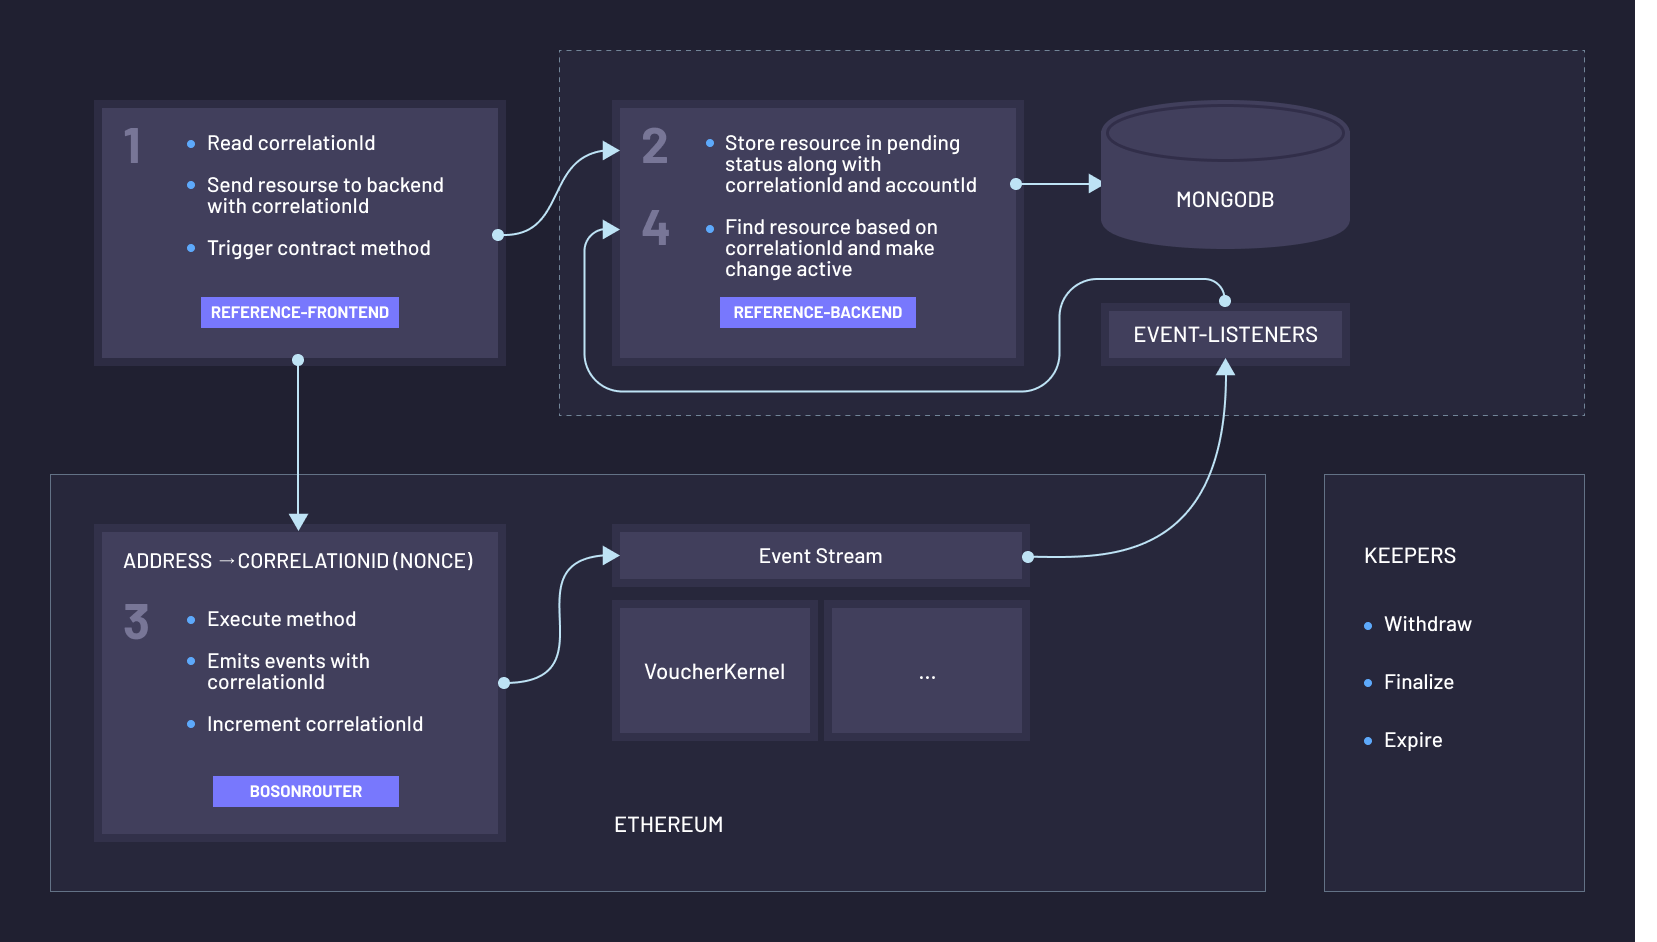
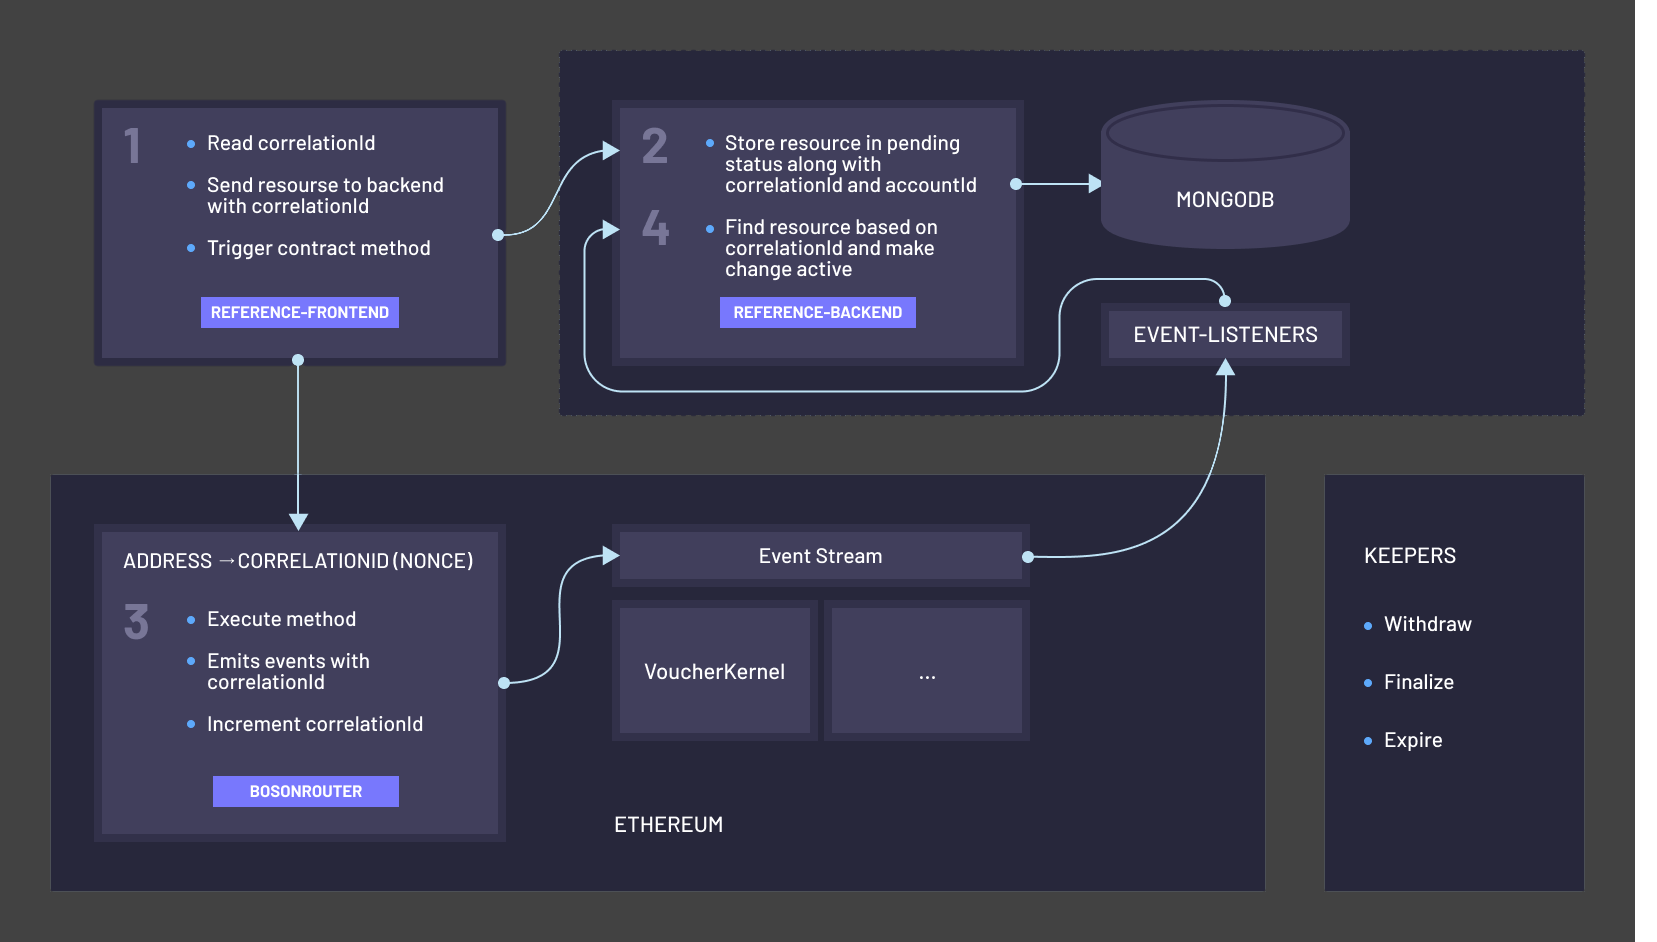
removes BApp copyright in footer sitewide, updates docs page content and changed architecture image bgcolour

Changed region(s): [[0.0, 0.0, 1.0, 1.0]]

diff --git a/src/views/documentation/Docs.js b/src/views/documentation/Docs.js
@@ -7,12 +7,8 @@ function Docs() {
     <section className="container-docs">
       <div className="main">
         <h1>Introduction to Leptonite</h1>
-        <p className="italic">
-          Description below provided by Frontend Operator, not Boson Protocol
-        </p>
         <p>
-          The Leptonite application can be accessed{" "}
-          <a href="https://www.leptonite.io">here</a>. Leptonite is a reference
+          Leptonite is a reference
           release of a peer-to-peer digital marketplace app built on top of
           Boson Protocol. The app enables users to connect their wallets and
           list a set of items for sale as well as discover products that can be
@@ -108,11 +104,11 @@ function Docs() {
         <p>
           In order to contribute to the Leptonite application or further develop
           your own forked copy of the Leptonite application, you will need to
-          set up a local development environemnt. This section explains how to
+          set up a local development environment. This section explains how to
           do that. These instructions assume a working knowledge of git and
           GitHub.
         </p>
-        <h3>Repositories</h3>
+        <h3 id="repositories">Repositories</h3>
         <p>
           By default, v0.1.0 of the reference application points to v0.1.0 of
           the Boson Protocol smart contracts deployed to the Rinkeby testnet.
@@ -212,7 +208,6 @@ function Docs() {
           receive their commitment NFT. To avoid this issue, please do not close
           the Leptonite application while confirming a MetaMask transaction.
         </p>
-        <p className="info-helpful">Was this information helpful?</p>
       </div>
       <Footer current={ROUTE.Docs} />
     </section>

diff --git a/src/shared-components/footer/Footer.js b/src/shared-components/footer/Footer.js
@@ -20,7 +20,6 @@ function Footer({ current }) {
   return (
     <footer className={FOOTER_DATA.Class}>
       <div>
-        <p className="reserved-rights">©2021 BApp.</p>
         {current === ROUTE.Docs ? (
           <p onClick={onRedirect}>
             <span>{FOOTER_DATA.TextDocs}</span>
